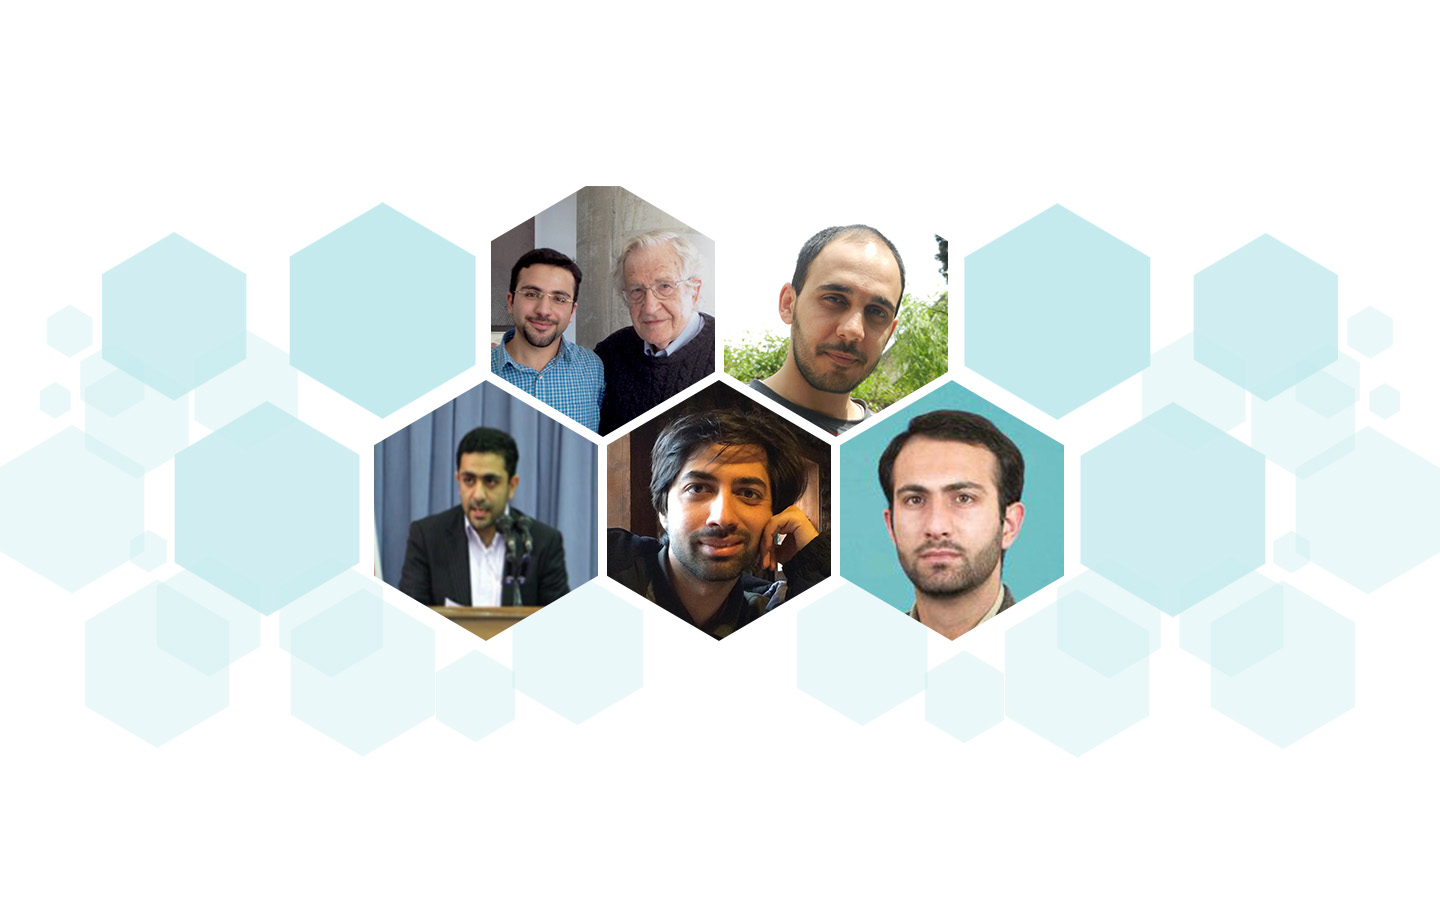
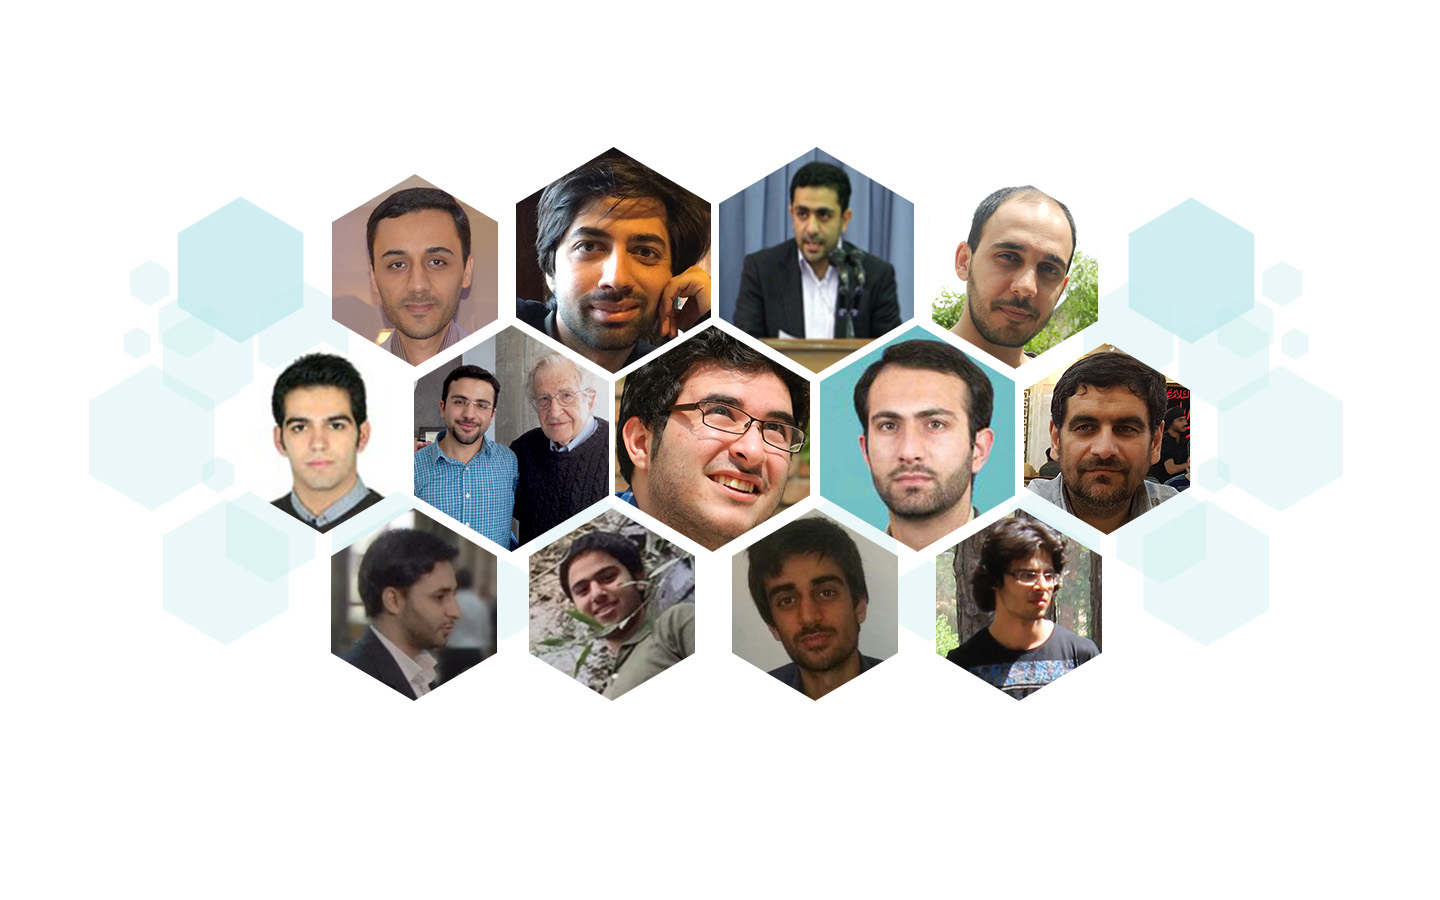
change header and footer photo.fix font issue

diff --git a/static/css/index.css b/static/css/index.css
@@ -1,1 +1,1 @@
-@keyframes blink{0%{opacity:1}50%{opacity:0}100%{opacity:1}}@-webkit-keyframes blink{0%{opacity:1}50%{opacity:0}100%{opacity:1}}@-moz-keyframes blink{0%{opacity:1}50%{opacity:0}100%{opacity:1}}a{text-decoration:none}#headerPage{width:100%;height:100vh;display:table;top:0px;left:0px;background-position:center center;background-size:cover;background-image:url("/static/image/header.png")}#headerPage .box{display:table-cell;vertical-align:bottom;text-align:center;padding-bottom:1rem}#headerPage .box .title{color:#0B3C53;font-family:DidactGothic;font-size:3rem;text-align:center;margin-bottom:3rem;font-weight:normal}#headerPage .box a.arrow{font-family:fontello;font-size:2rem;text-align:center;color:#0B3C53;-webkit-animation:blink 2s infinite;-moz-animation:blink 2s infinite;animation:blink 2s infinite}#mainPlate{top:100vh;width:100%;left:0px;background-color:rgba(0,59,83,0.8)}#backgroundPlate{z-index:-1;position:fixed;bottom:0px;left:0px;width:100%;height:100vh;background-repeat:no-repeat;background-position:bottom left;background-image:url("/static/image/mainBackground.png");background-size:60vw}.parentPlate .title{color:#fff;font-family:DidactGothic;text-align:center;font-size:2.4rem;margin-top:2.5rem;margin-bottom:3rem}#introduction{background-color:rgba(0,59,83,0.7)}#introduction .box{width:70%;margin:0 auto;margin-bottom:2rem}#introduction .box img{width:60%}#introduction .box .text{text-align:justify;direction:ltr;color:#fff;font-family:DidactGothic}#quotes{background-color:rgba(0,59,83,0.9);height:1000px}#quotes .quoteBox{height:6rem}#quotes .box{height:10rem;width:100%;display:table}#quotes .box .avatarBox{display:table-cell;vertical-align:middle}#quotes .box .avatarBox .avatar{margin:0 auto;border:0.5rem solid #41a1ca;width:7rem;height:7rem;background-position:center center;background-size:cover;border-radius:50%;cursor:pointer;-webkit-transition:0.3s ease all;-moz-transition:0.3s ease all;-ms-transition:0.3s ease all;-o-transition:0.3s ease all;transition:0.3s ease all}#quotes .box .avatarBox .avatar:hover{width:8rem;height:8rem;-webkit-transition:0.3s ease all;-moz-transition:0.3s ease all;-ms-transition:0.3s ease all;-o-transition:0.3s ease all;transition:0.3s ease all}#quotes .box.right{text-align:left}#quotes ::-webkit-scrollbar{width:0.5rem;height:0.5rem}#quotes ::-webkit-scrollbar-button:start:decrement,#quotes ::-webkit-scrollbar-button:end:increment{display:block;height:0;background-color:transparent}#quotes ::-webkit-scrollbar-track-piece{background-color:transparent;-webkit-border-radius:0}#quotes ::-webkit-scrollbar-thumb:vertical{height:3rem;background-color:#ffffff;border-left:0.2rem solid #FD7085;border-right:0.2rem solid #FD7085;border-top:0.3rem solid #FD7085;border-bottom:0.3rem solid #FD7085}#sponsers{background-color:rgba(110,250,254,0.8);padding-bottom:10rem}#sponsers .title{color:#0B3C53}#sponsers .avatar{margin:0 auto;border:0.3rem solid #bebebe;width:9rem;height:9rem;background-position:center center;background-size:cover;border-radius:50%;cursor:pointer;-webkit-transition:0.3s ease all;-moz-transition:0.3s ease all;-ms-transition:0.3s ease all;-o-transition:0.3s ease all;transition:0.3s ease all}.bottomBubble{position:relative;width:100%;height:10rem;padding:0px;padding-left:0.4rem;padding-right:0.4rem;-webkit-border-radius:10px;-moz-border-radius:10px;border-radius:10px}.bottomBubble:after{content:'';position:absolute;border-style:solid;border-width:0 15px 15px;border-color:#FD7085 transparent;display:block;width:0;z-index:1;top:-15px;left:43%}.topBubble{position:relative;width:100%;height:10rem;padding:0px;padding-left:0.4rem;padding-right:0.4rem;-webkit-border-radius:10px;-moz-border-radius:10px;border-radius:10px}.topBubble:after{content:'';position:absolute;border-style:solid;border-width:15px 15px 0;border-color:#FD7085 transparent;display:block;width:0;z-index:1;bottom:-15px;left:43%}.speechBubble{opacity:0;background:#FD7085;-webkit-transition:0.3s ease opacity;-moz-transition:0.3s ease opacity;-ms-transition:0.3s ease opacity;-o-transition:0.3s ease opacity;transition:0.3s ease opacity}.speechBubble p{height:10rem;overflow-y:auto;text-align:justify;direction:ltr;padding-top:0.4rem;padding-bottom:0.4rem;padding-left:0.5rem;color:#darkBlue}.speechBubble.show{opacity:1;-webkit-transition:0.3s ease opacity;-moz-transition:0.3s ease opacity;-ms-transition:0.3s ease opacity;-o-transition:0.3s ease opacity;transition:0.3s ease opacity}.row{margin:0 auto}.langButton{text-decoration:none;font-size:0.9rem;font-family:DidactGothic;color:#303030;position:absolute;right:3rem;top:1rem}.menuPlate{position:fixed;left:0px;bottom:0px}.menuPlate tr td{height:100vh;vertical-align:bottom;padding-bottom:7rem;padding-left:2rem}.menuPlate tr td .menuItem{margin-top:0.3rem;margin-bottom:0.3rem;padding-top:0.3rem;padding-bottom:0.3rem;padding-left:1rem;padding-right:1rem;border-radius:50px;background-color:rgba(0,59,83,0.7)}.menuPlate tr td .menuItem p{color:#fff;text-align:center;margin:0px;font-family:DidactGothic}.menuPlate tr td .menuItem.persian p{font-family:IRANSans}.menuPlate #goHome{cursor:pointer}#about{width:100%;height:100vh;background-size:contain;background-position:center center;background-image:url("/static/image/ourTeam.jpg");display:table}#about .content{vertical-align:bottom;text-align:center;display:table-cell;padding-bottom:2rem}#about .content a{text-decoration:none;color:#0B3C53;display:inline-block;margin-top:1rem}
+@keyframes blink{0%{opacity:1}50%{opacity:0}100%{opacity:1}}@-webkit-keyframes blink{0%{opacity:1}50%{opacity:0}100%{opacity:1}}@-moz-keyframes blink{0%{opacity:1}50%{opacity:0}100%{opacity:1}}a{text-decoration:none}#headerPage{width:100%;height:100vh;display:table;top:0px;left:0px;background-position:center center;background-size:cover;background-image:url("/static/image/header.png")}#headerPage .box{display:table-cell;vertical-align:bottom;text-align:center;padding-bottom:1rem}#headerPage .box .title{color:#0B3C53;font-family:DidactGothic;font-size:3rem;text-align:center;margin-bottom:3rem;font-weight:normal}#headerPage .box a.arrow{font-family:fontello;font-size:2rem;text-align:center;color:#0B3C53;-webkit-animation:blink 2s infinite;-moz-animation:blink 2s infinite;animation:blink 2s infinite}#mainPlate{top:100vh;width:100%;left:0px;background-color:rgba(0,59,83,0.8)}#backgroundPlate{z-index:-1;position:fixed;bottom:0px;left:0px;width:100%;height:100vh;background-repeat:no-repeat;background-position:bottom left;background-image:url("/static/image/mainBackground.png");background-size:60vw}.parentPlate .title{color:#fff;font-family:DidactGothic;text-align:center;font-size:2.4rem;margin-top:2.5rem;margin-bottom:3rem}#introduction{background-color:rgba(0,59,83,0.7)}#introduction .box{width:70%;margin:0 auto;margin-bottom:2rem}#introduction .box img{width:60%}#introduction .box .text{text-align:justify;direction:ltr;color:#fff;font-family:DidactGothic}#quotes{background-color:rgba(0,59,83,0.9);height:1000px}#quotes .quoteBox{height:6rem}#quotes .box{height:10rem;width:100%;display:table}#quotes .box .avatarBox{display:table-cell;vertical-align:middle}#quotes .box .avatarBox .avatar{margin:0 auto;border:0.5rem solid #41a1ca;width:7rem;height:7rem;background-position:center center;background-size:cover;border-radius:50%;cursor:pointer;-webkit-transition:0.3s ease all;-moz-transition:0.3s ease all;-ms-transition:0.3s ease all;-o-transition:0.3s ease all;transition:0.3s ease all}#quotes .box .avatarBox .avatar:hover{width:8rem;height:8rem;-webkit-transition:0.3s ease all;-moz-transition:0.3s ease all;-ms-transition:0.3s ease all;-o-transition:0.3s ease all;transition:0.3s ease all}#quotes .box.right{text-align:left}#quotes ::-webkit-scrollbar{width:0.5rem;height:0.5rem}#quotes ::-webkit-scrollbar-button:start:decrement,#quotes ::-webkit-scrollbar-button:end:increment{display:block;height:0;background-color:transparent}#quotes ::-webkit-scrollbar-track-piece{background-color:transparent;-webkit-border-radius:0}#quotes ::-webkit-scrollbar-thumb:vertical{height:3rem;background-color:#ffffff;border-left:0.2rem solid #FD7085;border-right:0.2rem solid #FD7085;border-top:0.3rem solid #FD7085;border-bottom:0.3rem solid #FD7085}#sponsers{background-color:rgba(110,250,254,0.8);padding-bottom:10rem}#sponsers .title{color:#0B3C53}#sponsers .avatar{margin:0 auto;border:0.3rem solid #bebebe;width:9rem;height:9rem;background-position:center center;background-size:cover;border-radius:50%;cursor:pointer;-webkit-transition:0.3s ease all;-moz-transition:0.3s ease all;-ms-transition:0.3s ease all;-o-transition:0.3s ease all;transition:0.3s ease all}.bottomBubble{position:relative;width:100%;height:10rem;padding:0px;padding-left:0.4rem;padding-right:0.4rem;-webkit-border-radius:10px;-moz-border-radius:10px;border-radius:10px}.bottomBubble:after{content:'';position:absolute;border-style:solid;border-width:0 15px 15px;border-color:#FD7085 transparent;display:block;width:0;z-index:1;top:-15px;left:43%}.topBubble{position:relative;width:100%;height:10rem;padding:0px;padding-left:0.4rem;padding-right:0.4rem;-webkit-border-radius:10px;-moz-border-radius:10px;border-radius:10px}.topBubble:after{content:'';position:absolute;border-style:solid;border-width:15px 15px 0;border-color:#FD7085 transparent;display:block;width:0;z-index:1;bottom:-15px;left:43%}.speechBubble{opacity:0;background:#FD7085;-webkit-transition:0.3s ease opacity;-moz-transition:0.3s ease opacity;-ms-transition:0.3s ease opacity;-o-transition:0.3s ease opacity;transition:0.3s ease opacity}.speechBubble p{height:10rem;overflow-y:auto;text-align:justify;direction:ltr;padding-top:0.4rem;padding-bottom:0.4rem;padding-left:0.5rem;color:#darkBlue}.speechBubble.show{opacity:1;-webkit-transition:0.3s ease opacity;-moz-transition:0.3s ease opacity;-ms-transition:0.3s ease opacity;-o-transition:0.3s ease opacity;transition:0.3s ease opacity}.row{margin:0 auto}.langButton{text-decoration:none;font-size:0.9rem;font-family:DidactGothic;color:#303030;position:absolute;right:3rem;top:1rem}.menuPlate{position:fixed;left:0px;bottom:0px}.menuPlate tr td{height:100vh;vertical-align:bottom;padding-bottom:7rem;padding-left:2rem}.menuPlate tr td .menuItem{margin-top:0.3rem;margin-bottom:0.3rem;padding-top:0.3rem;padding-bottom:0.3rem;padding-left:1rem;padding-right:1rem;border-radius:50px;background-color:rgba(0,59,83,0.7)}.menuPlate tr td .menuItem p{color:#fff;text-align:center;margin:0px;font-family:DidactGothic}.menuPlate tr td .menuItem.persian p{font-family:IRANSans}.menuPlate #goHome{cursor:pointer}#about{width:100%;height:100vh;background-color:#ffffff;background-size:contain;background-position:center center;background-repeat:no-repeat;background-image:url("/static/image/ourTeam.jpg");display:table}#about .content{vertical-align:bottom;text-align:center;display:table-cell;padding-bottom:2rem}#about .content a{text-decoration:none;color:#0B3C53;display:inline-block;margin-top:1rem}

diff --git a/fa/index.html b/fa/index.html
@@ -8,18 +8,17 @@
 		<meta property="og:site_name" content=""/>
 		<meta property="og:description" content="قصر بهشتی قرآن" />
 		<meta property="og:image" content="" />
+		<link rel="stylesheet" type="text/css" href="/static/css/fonts.css?v=1"/>
 		<link rel="stylesheet" type="text/css" href="/static/css/normalize.css?v=1" />
 		<link rel="stylesheet" type="text/css" href="/static/css/fontello.css?v=1" />
 		<link rel="stylesheet" type="text/css" href="/static/css/foundation.css?v=1" />
 		
-		<link rel="stylesheet" type="text/css" href="/static/css/index.css?v=1"
-		/>
-		<link rel="stylesheet" type="text/css" href="/static/css/rtl.css?v=1"
-		/>
-		<script type='text/javascript' src="/static/js/jquery.min.js"></script>
-		<script type='text/javascript' src="/static/js/jquery.hoverIntent.min.js"></script>
-		<script type='text/javascript' src="/static/js/index.min.js"></script>
-		<script type='text/javascript' src="/static/js/foundation.min.js"></script>
+		<link rel="stylesheet" type="text/css" href="/static/css/index.css?v=1"/>
+		<link rel="stylesheet" type="text/css" href="/static/css/rtl.css?v=1"/>
+		<script type='text/javascript' src="/static/js/jquery.min.js?v=1"></script>
+		<script type='text/javascript' src="/static/js/jquery.hoverIntent.min.js?v=1"></script>
+		<script type='text/javascript' src="/static/js/index.min.js?v=1"></script>
+		<script type='text/javascript' src="/static/js/foundation.min.js?v=1"></script>
 		
 	</head>
 

diff --git a/index.html b/index.html
@@ -8,19 +8,17 @@
 		<meta property="og:site_name" content=""/>
 		<meta property="og:description" content="Quran Heavenly Palace" />
 		<meta property="og:image" content="" />
-		<link rel="stylesheet" type="text/css" href="/static/css/fonts.css?v=1"
-		/>
+		<link rel="stylesheet" type="text/css" href="/static/css/fonts.css?v=1"/>
 		<link rel="stylesheet" type="text/css" href="/static/css/normalize.css?v=1" />
 		<link rel="stylesheet" type="text/css" href="/static/css/fontello.css?v=1" />
 		<link rel="stylesheet" type="text/css" href="/static/css/foundation.css?v=1" />
 		
-		<link rel="stylesheet" type="text/css" href="/static/css/index.css?v=1"
-		/>
+		<link rel="stylesheet" type="text/css" href="/static/css/index.css?v=1"/>
 		
-		<script type='text/javascript' src="/static/js/jquery.min.js"></script>
-		<script type='text/javascript' src="/static/js/jquery.hoverIntent.min.js"></script>
-		<script type='text/javascript' src="/static/js/index.min.js"></script>
-		<script type='text/javascript' src="/static/js/foundation.min.js"></script>
+		<script type='text/javascript' src="/static/js/jquery.min.js?v=1"></script>
+		<script type='text/javascript' src="/static/js/jquery.hoverIntent.min.js?v=1"></script>
+		<script type='text/javascript' src="/static/js/index.min.js?v=1"></script>
+		<script type='text/javascript' src="/static/js/foundation.min.js?v=1"></script>
 		
 	</head>
 

diff --git a/assets/scss/index.scss b/assets/scss/index.scss
@@ -390,8 +390,10 @@ body
 {
 	width:100%;
 	height: 100vh;
+	background-color: #ffffff;
 	background-size: contain;
 	background-position: center center;
+	background-repeat: no-repeat;
 	background-image: url('/static/image/ourTeam.jpg');
 	display: table;
 	.content
